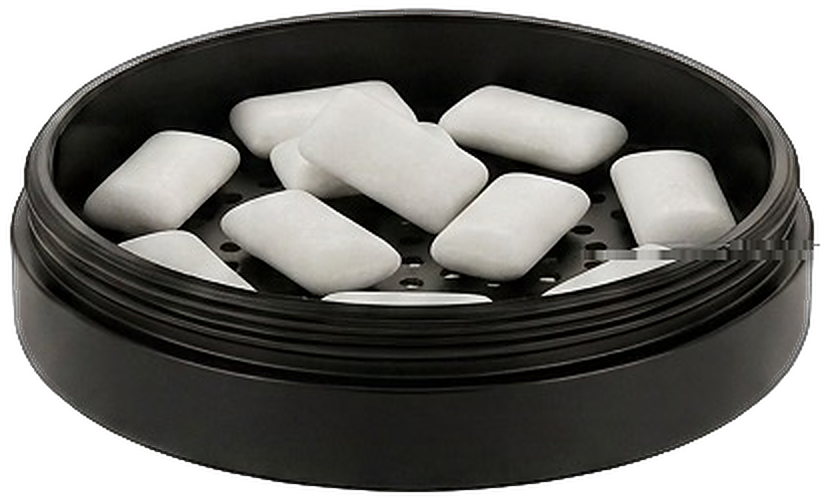
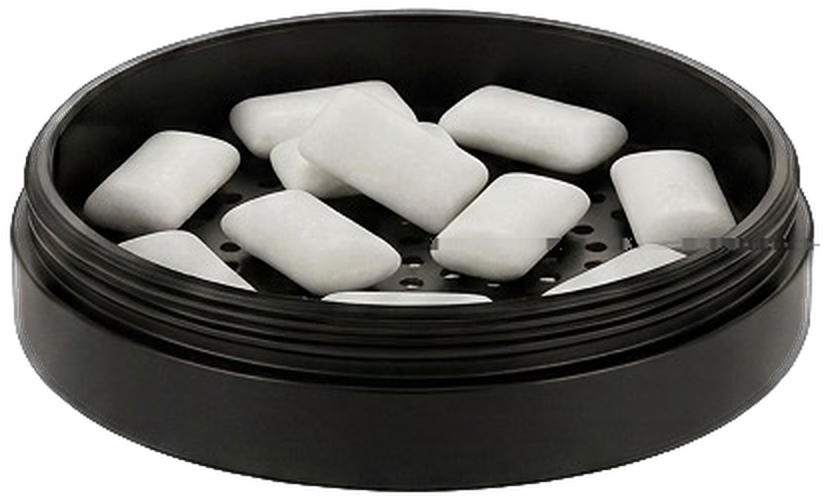
Recut the three pieces: no halo at the edge, no trace of the old leader lines
The upscale now runs on premultiplied pixels, so the white that used to sit
under the transparent area no longer bleeds into the rim; the old line was
found where it crossed the background and only its pixels were repainted.

diff --git a/src/lib/stage.ts b/src/lib/stage.ts
@@ -2,21 +2,21 @@
  * Geometry of the exploded tin on the home page.
  *
  * The three pieces were cut out of one render and are placed back on a
- * shared 415 x 705 canvas, so a label beside the stage can be put level with
+ * shared 416 x 706 canvas, so a label beside the stage can be put level with
  * its piece at any width by using the same percentages. This lives outside
  * the client component that draws the stage because the hero, a server
  * component, needs the numbers as plain values.
  */
-export const STAGE_ASPECT = "415/705";
+export const STAGE_ASPECT = "416/706";
 
 export const LAYERS = [
-  { src: "/layer-lid.png", w: 830, h: 382, top: 0.14, lift: 26, float: 10, dur: 7.5 },
-  { src: "/layer-chamber.png", w: 830, h: 500, top: 27.23, lift: 0, float: 6, dur: 8.5 },
-  { src: "/layer-base.png", w: 830, h: 522, top: 62.7, lift: -26, float: 4, dur: 9.5 },
+  { src: "/layer-lid.png", w: 832, h: 382, top: 0.14, lift: 26, float: 10, dur: 7.5 },
+  { src: "/layer-chamber.png", w: 832, h: 500, top: 27.2, lift: 0, float: 6, dur: 8.5 },
+  { src: "/layer-base.png", w: 832, h: 522, top: 62.61, lift: -26, float: 4, dur: 9.5 },
 ] as const;
 
 /** Where each piece's rim is widest, as a percentage of the canvas height. */
-export const LAYER_ANCHORS = [11.1, 43, 77.9] as const;
+export const LAYER_ANCHORS = [11, 42.9, 77.8] as const;
 
 export const STAGE_ALT =
   "The Ice Tin taken apart: the engraved lid on top, the pouch chamber with its perforated floor in the middle, and the ice pack seated in the base";

diff --git a/src/components/product-stage.tsx b/src/components/product-stage.tsx
@@ -45,7 +45,7 @@ export const ProductStage = memo(function ProductStage({
     >
       <motion.div
         style={{ x, y }}
-        className="relative aspect-[415/705] w-full"
+        className="relative aspect-[416/706] w-full"
         role="img"
         aria-label={STAGE_ALT}
       >
